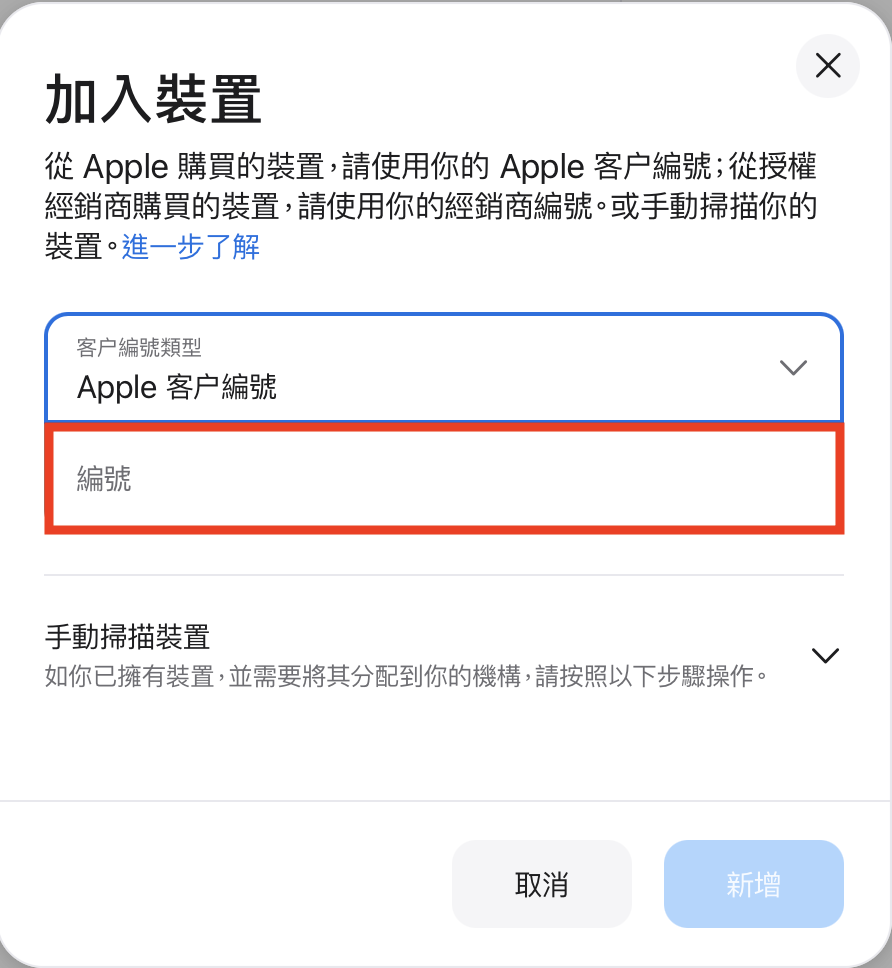
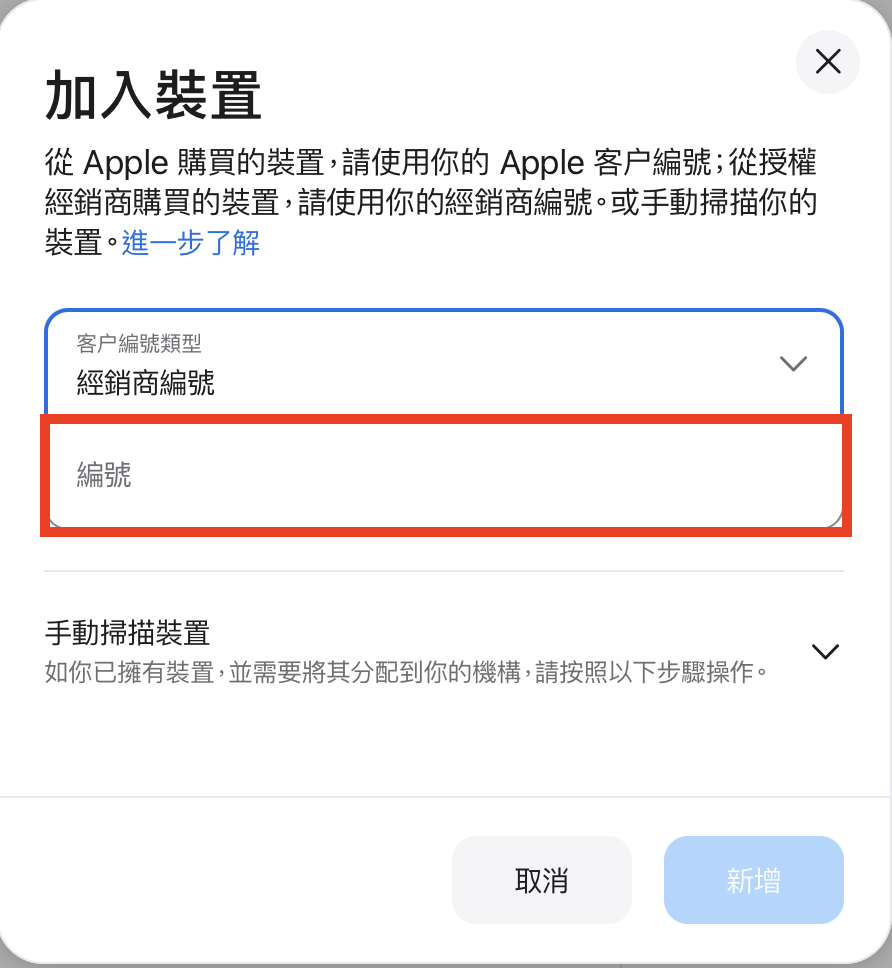
Update reseller_step2_add_details.png and rename section/steps to 經銷商編號

diff --git a/docs/guide/organization.md b/docs/guide/organization.md
@@ -82,7 +82,7 @@ business.apple.com → 填寫資訊 → 驗證機構(兩種方式，最多5天) 
 
 ---
 
-## 🔗 經銷商綁定 (Reseller ID)
+## 🔗 經銷商綁定（經銷商編號）
 
 **「經銷商綁定」** 是讓 Apple 官方、經銷商與企業之間建立「信任鏈」，讓企業採購的每一台 Mac / iPhone，在出貨時能自動進入 Apple 商務管理後台的關鍵機制。
 
@@ -97,8 +97,8 @@ business.apple.com → 填寫資訊 → 驗證機構(兩種方式，最多5天) 
 
 ### 🔍 4 個步驟白話拆解：
 
-1. **步驟 1：向經銷商索取「經銷商編號 (Reseller ID)」**
-   - **白話解釋**：向合作的 Apple 授權經銷商索取其在 Apple 登記的 Reseller ID（或 Apple 客戶編號 / Customer Number）。
+1. **步驟 1：向經銷商索取「經銷商編號」**
+   - **白話解釋**：向合作的 Apple 授權經銷商索取其在 Apple 登記的經銷商編號（或 Apple 客戶編號 / Customer Number）。
    - **目的**：經銷商會提供一組專屬官方代碼，代表其官方經銷商身分。
 
 2. **步驟 2：在 Apple 商務後台「加入經銷商編號」**
@@ -121,8 +121,8 @@ business.apple.com → 填寫資訊 → 驗證機構(兩種方式，最多5天) 
    - **後續效果**：未來只要發出採購單（PO），經銷商出庫掃描序號時，序號就會透過 Apple 雲端自動出現在後台庫存，完全無需 IT 手動登打。
 
 ```
-[企業組織] ──(1. 索取 Reseller ID)──> [授權經銷商]
-[企業組織] ──(2. 後台登記 Reseller ID)──> [Apple 雲端認證]
+[企業組織] ──(1. 索取經銷商編號)──> [授權經銷商]
+[企業組織] ──(2. 後台登記經銷商編號)──> [Apple 雲端認證]
 [企業組織] ──(3. 提供機構 ID)────────> [經銷商系統綁定]
                   ⬇
 [未來採購] 經銷商出貨掃描 ──(4. 自動同步序號)──> [Apple 商務庫存]
